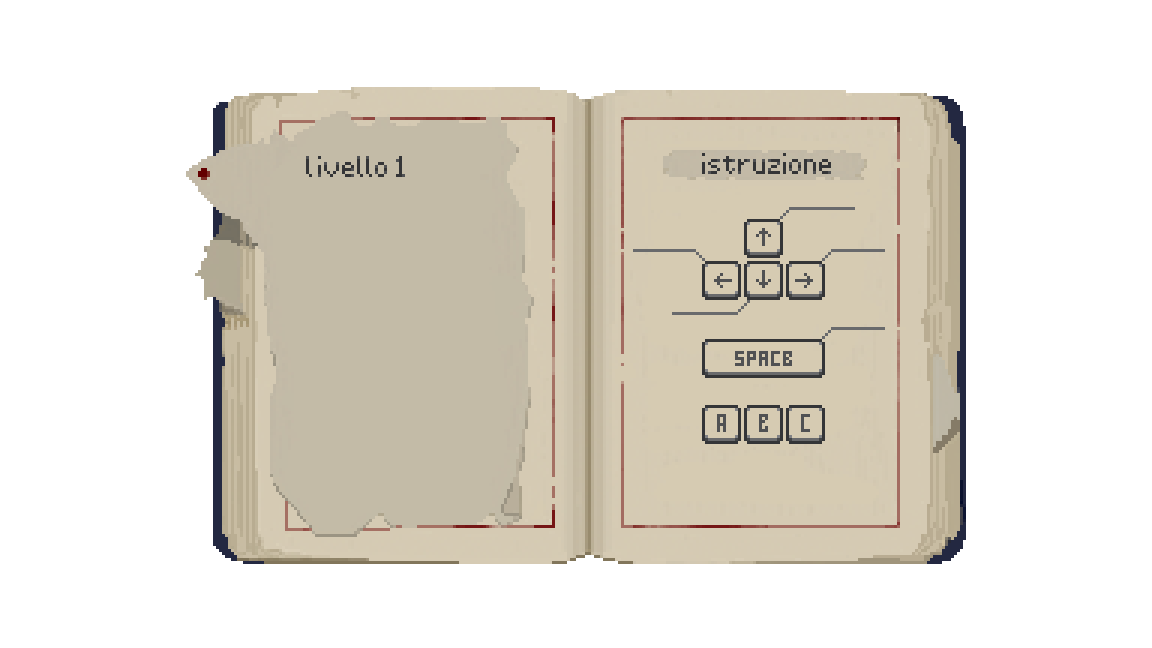
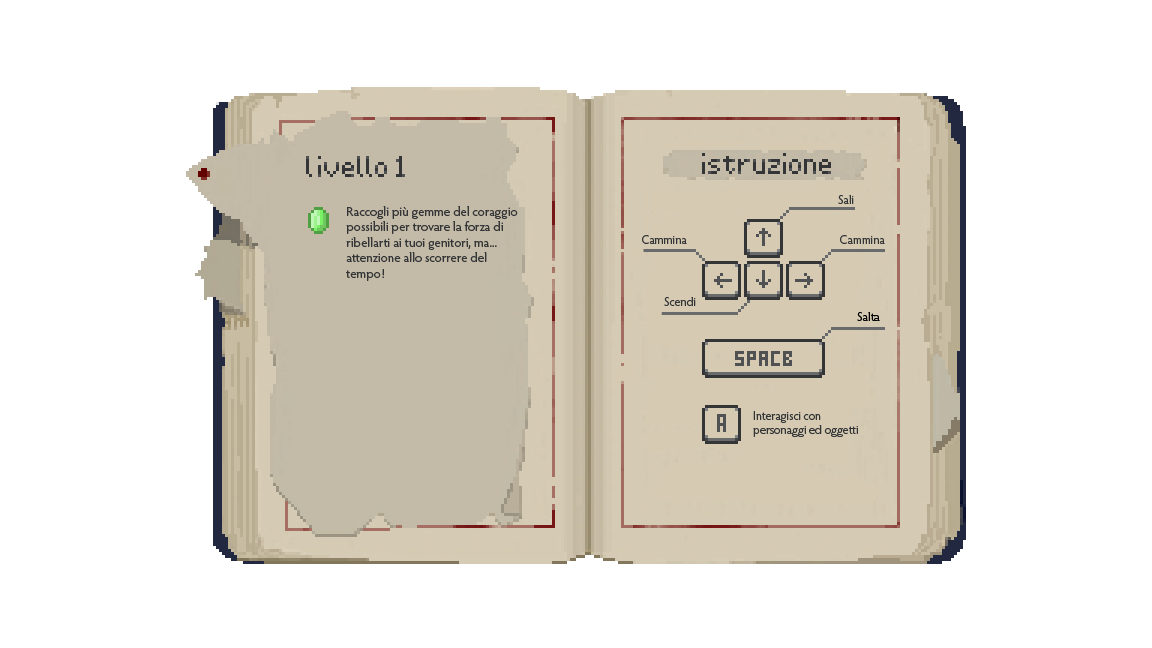
aggiornamenti vari, libretto, crediti ecc

diff --git a/src/frammenti.js b/src/frammenti.js
@@ -30,7 +30,7 @@ let luce1;
 
 function preload_frammenti(s) {
 
-    img_suggerimenti=PP.assets.image.load(s,"assets/images/tasto_A.png");
+    img_suggerimenti=PP.assets.image.load(s,"assets/images/tasto_C.png");
     // Load delle immagini del funghetto
     img_frammento_1   = PP.assets.image.load(s, "assets/images/frammento_1.png");
     img_frammento_2   = PP.assets.image.load(s, "assets/images/frammento_2.png");
@@ -268,7 +268,7 @@ function collision_frammento1(s, player, frammento_1) {
    player.is_on_frammenti = true;
   
 
-    if (PP.interactive.kb.is_key_down(s, PP.key_codes.A)) {
+    if (PP.interactive.kb.is_key_down(s, PP.key_codes.C)) {
 
         frammento_1.ph_obj.x = 10; // X 坐标
         frammento_1.ph_obj.y = 10; // Y 坐标
@@ -299,7 +299,7 @@ function collision_frammento2(s, player, frammento_2) {
     player.is_on_frammenti = true;
 
 
-    if (PP.interactive.kb.is_key_down(s, PP.key_codes.A)) {
+    if (PP.interactive.kb.is_key_down(s, PP.key_codes.C)) {
 
         frammento_2.ph_obj.x = 60; // X 坐标
         frammento_2.ph_obj.y = 10; // Y 坐标
@@ -329,7 +329,7 @@ function collision_frammento3(s, player, frammento_3) {
     player.is_on_frammenti = true;
 
 
-    if (PP.interactive.kb.is_key_down(s, PP.key_codes.A)) {
+    if (PP.interactive.kb.is_key_down(s, PP.key_codes.C)) {
 
         frammento_3.ph_obj.x = 110; // X 坐标
         frammento_3.ph_obj.y = 10; // Y 坐标
@@ -359,7 +359,7 @@ function collision_frammento4(s, player, frammento_4) {
     player.is_on_frammenti = true;
 
 
-    if (PP.interactive.kb.is_key_down(s, PP.key_codes.A)) {
+    if (PP.interactive.kb.is_key_down(s, PP.key_codes.C)) {
 
         frammento_4.ph_obj.x = 160; // X 坐标
         frammento_4.ph_obj.y = 10; // Y 坐标
@@ -389,7 +389,7 @@ function collision_frammento5(s, player, frammento_5) {
     player.is_on_frammenti = true;
 
 
-    if (PP.interactive.kb.is_key_down(s, PP.key_codes.A)) {
+    if (PP.interactive.kb.is_key_down(s, PP.key_codes.C)) {
 
         frammento_5.ph_obj.x = 210; // X 坐标
         frammento_5.ph_obj.y = 10; // Y 坐标
@@ -419,7 +419,7 @@ function collision_frammento6(s, player, frammento_6) {
     player.is_on_frammenti = true;
 
 
-    if (PP.interactive.kb.is_key_down(s, PP.key_codes.A)) {
+    if (PP.interactive.kb.is_key_down(s, PP.key_codes.C)) {
 
         frammento_6.ph_obj.x = 260; // X 坐标
         frammento_6.ph_obj.y = 10; // Y 坐标
@@ -449,7 +449,7 @@ function collision_frammento7(s, player, frammento_7) {
     player.is_on_frammenti = true;
 
 
-    if (PP.interactive.kb.is_key_down(s, PP.key_codes.A)) {
+    if (PP.interactive.kb.is_key_down(s, PP.key_codes.C)) {
 
         frammento_7.ph_obj.x = 310; // X 坐标
         frammento_7.ph_obj.y = 10; // Y 坐标
@@ -540,7 +540,7 @@ function update_frammento1(s, player){
             
         }
        
-        if (PP.interactive.kb.is_key_down(s, PP.key_codes.A)){
+        if (PP.interactive.kb.is_key_down(s, PP.key_codes.C)){
           // 1) distruggo giada
 
           PP.assets.destroy(luce1);
@@ -569,7 +569,7 @@ function update_frammento1(s, player){
             luce2.visibility.alpha=0.5;
         }
        
-        if (PP.interactive.kb.is_key_down(s, PP.key_codes.A)){
+        if (PP.interactive.kb.is_key_down(s, PP.key_codes.C)){
           // 1) distruggo giada
           PP.assets.destroy(luce2);
         }
@@ -594,7 +594,7 @@ function update_frammento1(s, player){
             luce3.visibility.alpha=0.5;
         }
        
-        if (PP.interactive.kb.is_key_down(s, PP.key_codes.A)){
+        if (PP.interactive.kb.is_key_down(s, PP.key_codes.C)){
           // 1) distruggo giada
 
           PP.assets.destroy(luce3);
@@ -620,7 +620,7 @@ function update_frammento1(s, player){
             luce4.visibility.alpha=0.5;
         }
        
-        if (PP.interactive.kb.is_key_down(s, PP.key_codes.A)){
+        if (PP.interactive.kb.is_key_down(s, PP.key_codes.C)){
           // 1) distruggo giada
 
           PP.assets.destroy(luce4);
@@ -645,7 +645,7 @@ function update_frammento1(s, player){
             luce5.visibility.alpha=0.5;
         }
        
-        if (PP.interactive.kb.is_key_down(s, PP.key_codes.A)){
+        if (PP.interactive.kb.is_key_down(s, PP.key_codes.C)){
           // 1) distruggo giada
 
           PP.assets.destroy(luce5);
@@ -670,7 +670,7 @@ function update_frammento1(s, player){
             luce6.visibility.alpha=0.5;
         }
        
-        if (PP.interactive.kb.is_key_down(s, PP.key_codes.A)){
+        if (PP.interactive.kb.is_key_down(s, PP.key_codes.C)){
           // 1) distruggo giada
 
           PP.assets.destroy(luce6);
@@ -695,7 +695,7 @@ function update_frammento1(s, player){
             luce7.visibility.alpha=0.5;
         }
        
-        if (PP.interactive.kb.is_key_down(s, PP.key_codes.A)){
+        if (PP.interactive.kb.is_key_down(s, PP.key_codes.C)){
           // 1) distruggo giada
 
           PP.assets.destroy(luce7);

diff --git a/src/scenes/crediti.js b/src/scenes/crediti.js
@@ -1,0 +1,66 @@
+let tavola_crediti
+let img_home;
+//let tasto_rigioca;
+let tasto_home;
+//let img_rigioca;
+
+
+
+function preload(s) {
+    tavola_crediti = PP.assets.image.load(s, "assets/images/pagina_crediti.png");
+    img_home = PP.assets.image.load(s, "assets/images/tasto_home.png");
+   // img_rigioca = PP.assets.image.load(s, "assets/images/tasto_rigioca.png");
+}
+
+function create(s) {
+
+    // una volta scaduto il tempo, esce la tavola
+    //per ora è solo uno schizzo
+    PP.assets.tilesprite.add(s, tavola_crediti, 0, 0, 0, 0, 0, 0);
+    
+
+        tasto_home= PP.assets.image.add(s, img_home,20, 20, 0, 0);
+        
+
+        
+        PP.interactive.mouse.add(tasto_home, "pointerdown", home);
+        PP.interactive.mouse.add(tasto_home, "pointerover", over_home);
+        PP.interactive.mouse.add(tasto_home, "pointerout", out_home);
+
+        
+
+}
+
+
+function home(s) {
+    PP.scenes.start("copertina");
+}
+function over_home(s) {
+    
+    tasto_home.geometry.scale_x=1.3;
+    tasto_home.geometry.scale_y=1.3;   
+    }
+    
+ function out_home(s) {
+    
+        tasto_home.geometry.scale_x=1;
+        tasto_home.geometry.scale_y=1;   
+        }
+
+function update(s) {
+    //premendo space, si torna alla copertina
+    if (PP.interactive.kb.is_key_down(s, PP.key_codes.LEFT)) {
+        //PP.scenes.start("copertina");
+        window.location.href = 'index.html';
+          // Versione livello 2 con Liang
+        
+    }
+    
+
+}
+
+function destroy(s) {
+
+}
+
+PP.scenes.add("crediti", preload, create, update, destroy);

diff --git a/src/dialogo2.js b/src/dialogo2.js
@@ -93,6 +93,7 @@ function create_dialogo2(s,player){
     ponte_ricostruito=PP.assets.image.add(s,img_ponte_ricostruito,0,0,0,0);
     ponte_ricostruito_primopiano=PP.assets.image.add(s,img_ponte_ricostruito_primopiano,0,0,0,0);
     ponte_ricostruito_primopiano.visibility.alpha=0;
+    ponte_ricostruito.visibility.alpha=0;
     let layer_ponte_ricostruito_primopiano = PP.layers.create(s);
                     PP.layers.add_to_layer(layer_ponte_ricostruito_primopiano, ponte_ricostruito_primopiano);
                     PP.layers.set_z_index(layer_ponte_ricostruito_primopiano, 2);

diff --git a/src/dialogo_liang.js b/src/dialogo_liang.js
@@ -21,7 +21,7 @@ function create_dialogo_liang(s,player){
 
     liang = PP.assets.image.add(s,img_liang,3700,1238,0,0);
     PP.physics.add(s,liang,PP.physics.type.STATIC);
-    s.physics.add.collider(player.ph_obj, liang.ph_obj, () => collision_liang(s, player, liang));
+    //s.physics.add.collider(player.ph_obj, liang.ph_obj, () => collision_liang(s, player, liang));
 
     casella_zhu_dialogo_liang = PP.assets.image.add(s,img_casella_zhu_dialogo_liang,650,1370,0,0);
     casella_zhu_dialogo_liang.visibility.alpha=0;

diff --git a/index.html b/index.html
@@ -12,6 +12,7 @@
         <script src="src/scenes/tavola1.js" type="module"></script>
         <script src="src/scenes/tavola2.js" type="module"></script>
         <script src="src/scenes/tavola3.js" type="module"></script>
+        <script src="src/scenes/crediti.js" type="module"></script>
         
         <script src="src/scenes/base.js" type="module"></script>
         <script src="src/scenes/finale_negativo.js" type="module"></script>

diff --git a/src/scenes/base2.js b/src/scenes/base2.js
@@ -63,7 +63,7 @@ function preload(s) {
 
 
     img_book_icon = PP.assets.image.load(s, "assets/images/menu_book_icon.png");
-    img_book_open = PP.assets.image.load(s, "assets/images/menu_book_open.png");
+    img_book_open = PP.assets.image.load(s, "assets/images/menu_book_open_3.png");
     img_timer_icon   = PP.assets.image.load(s, "assets/images/timer_icon.png");
 
     preload_player(s);

diff --git a/src/scenes/base3.js b/src/scenes/base3.js
@@ -55,7 +55,7 @@ function preload(s) {
 
 
     img_book_icon = PP.assets.image.load(s, "assets/images/menu_book_icon.png");
-    img_book_open = PP.assets.image.load(s, "assets/images/menu_book_open.png");
+    img_book_open = PP.assets.image.load(s, "assets/images/menu_book_open_2.png");
     img_timer_icon   = PP.assets.image.load(s, "assets/images/timer_icon.png");
 
     preload_player(s);

diff --git a/src/main.js b/src/main.js
@@ -9,7 +9,7 @@ WebFont.load({
             canvas_height: 720,
             canvas_id: "game_area", // Specifica il div contenitore
             background_color: 0x000000,
-            debug_mode: false,
+            debug_mode: true,
             gravity_value: 300,
         };
 

diff --git a/src/scenes/copertina.js b/src/scenes/copertina.js
@@ -104,7 +104,7 @@ function out_storia(s) {
 
 
 function down_crediti(s) {
-    PP.scenes.start("tavola1");
+    PP.scenes.start("crediti");
 }
 function over_crediti(s) {
     crediti.geometry.scale_x = 1.3;

diff --git a/src/scenes/tavola1.js b/src/scenes/tavola1.js
@@ -98,6 +98,11 @@ function update(s) {
         PP.scenes.start("tavola2");
 
     }
+    if (PP.interactive.kb.is_key_down(s, PP.key_codes.LEFT)) {
+
+        PP.scenes.start("copertina");
+
+    }
 
 
 }
